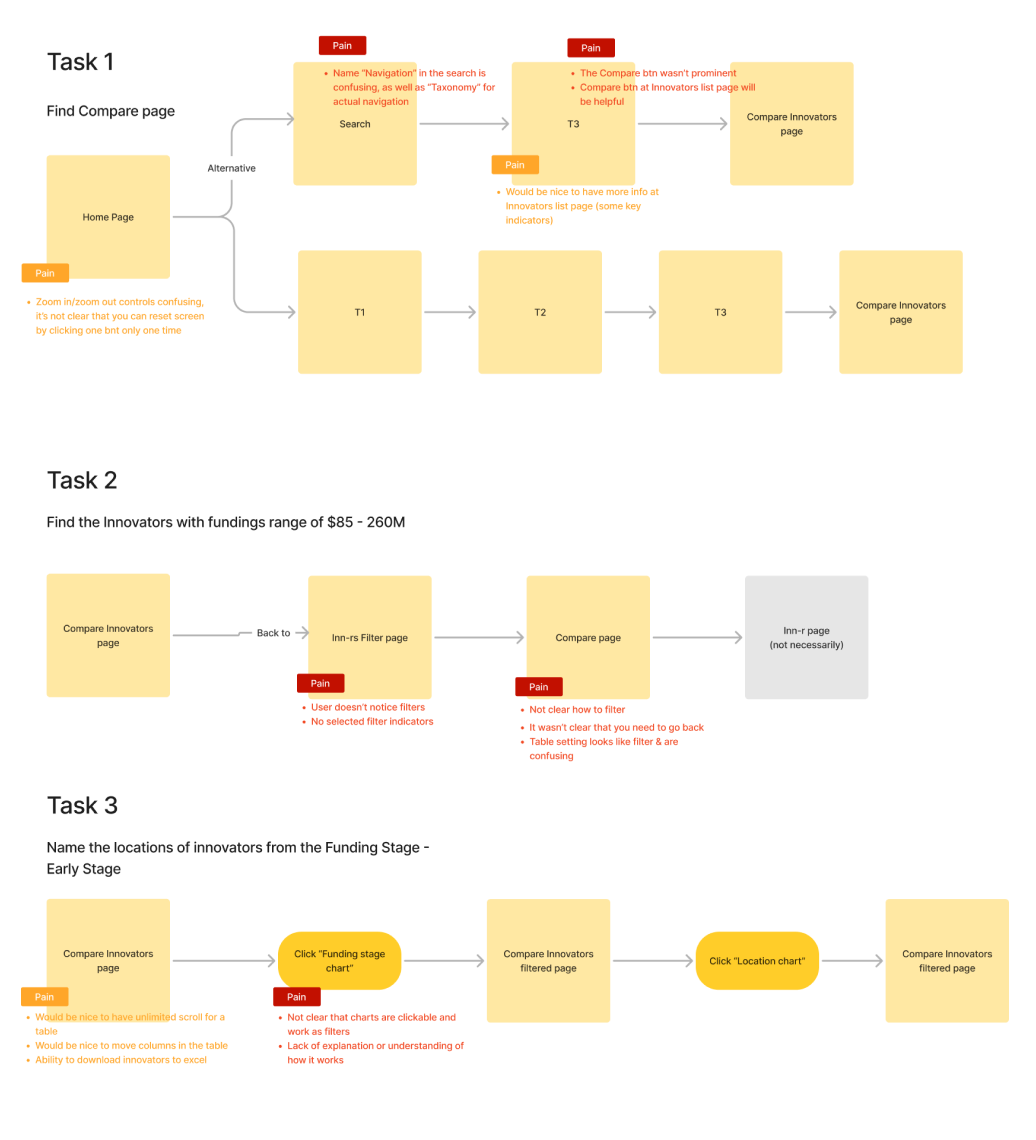
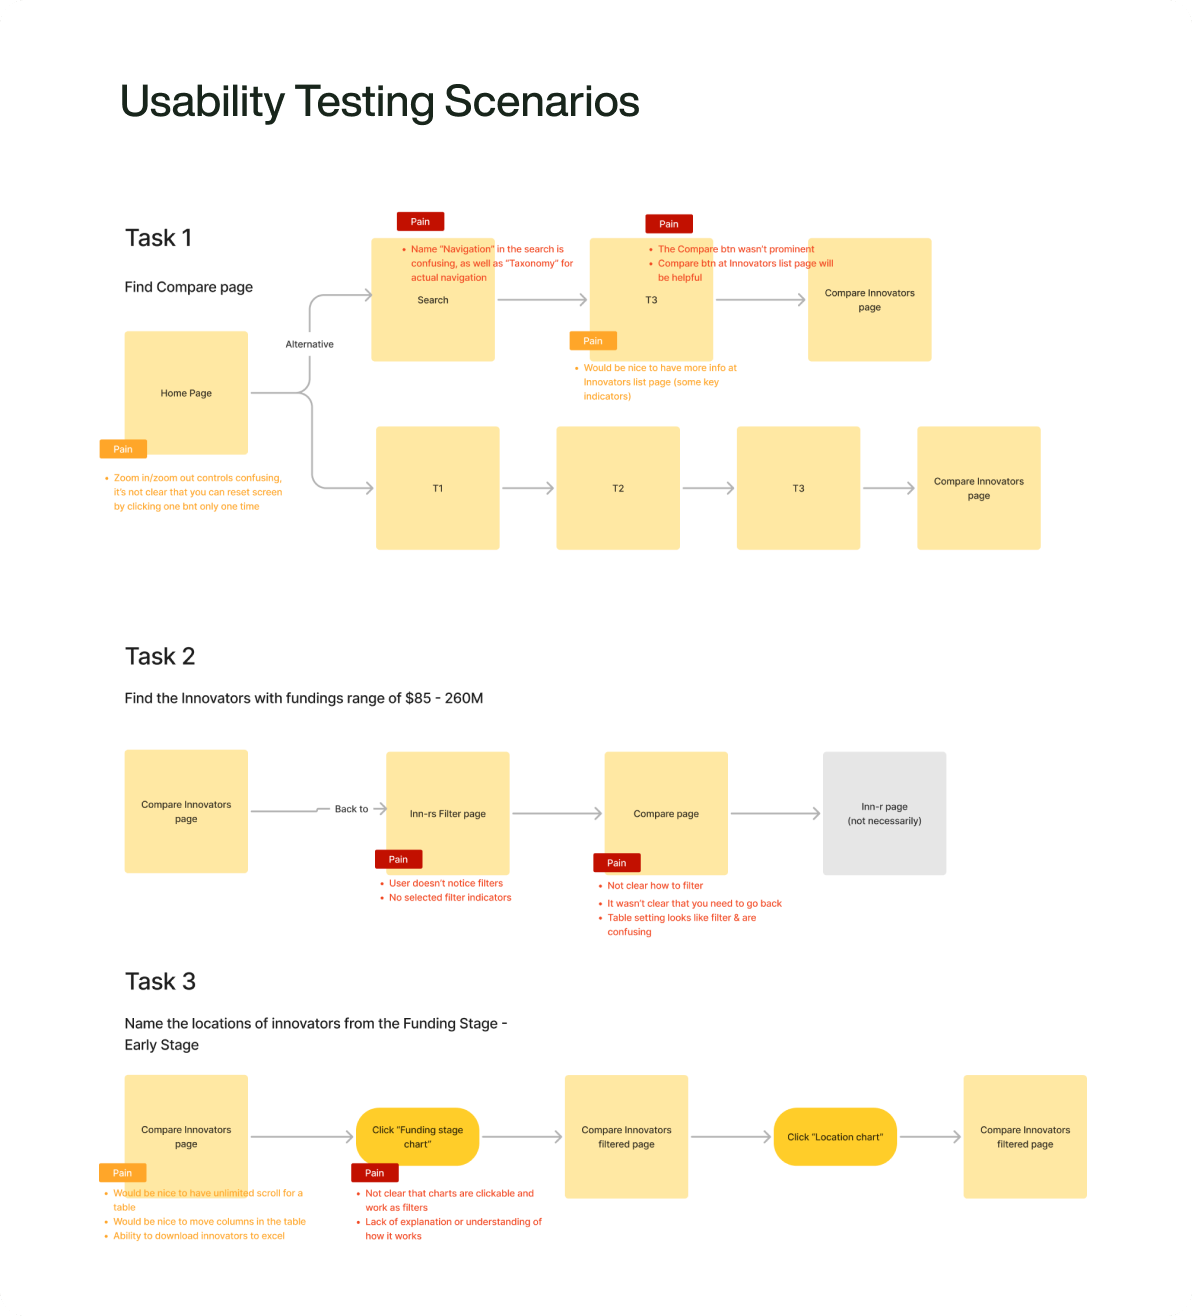
Keep corners and captions in proportion as the case scales
The usability panel's heading was live text at a fixed 22px and the card
behind it was drawn in CSS, so at six and two columns the heading grew
against a card that had shrunk. Both now come out of the mockup as one
picture, corners included.

Every remaining radius moves from pixels to a percentage pair. A pixel
radius stays put as a picture scales, so the corners turned to bubbles
at the narrow widths; in percent the corner is the same fraction of the
picture at every size. Each pair is the mockup's own radius over that
picture's two sides, so nothing changes at twelve columns.

diff --git a/src/styles/case.css b/src/styles/case.css
@@ -132,7 +132,9 @@
   top: 50%;
   transform: translate(-50%, -50%);
   width: 86%;
-  border-radius: 12px;
+  /* In percent, so the corner keeps the same weight as the picture scales;
+     12px of a 583px-wide screenshot, over its two sides. */
+  border-radius: 2% / 3.2%;
 }
 
 .case-meta {
